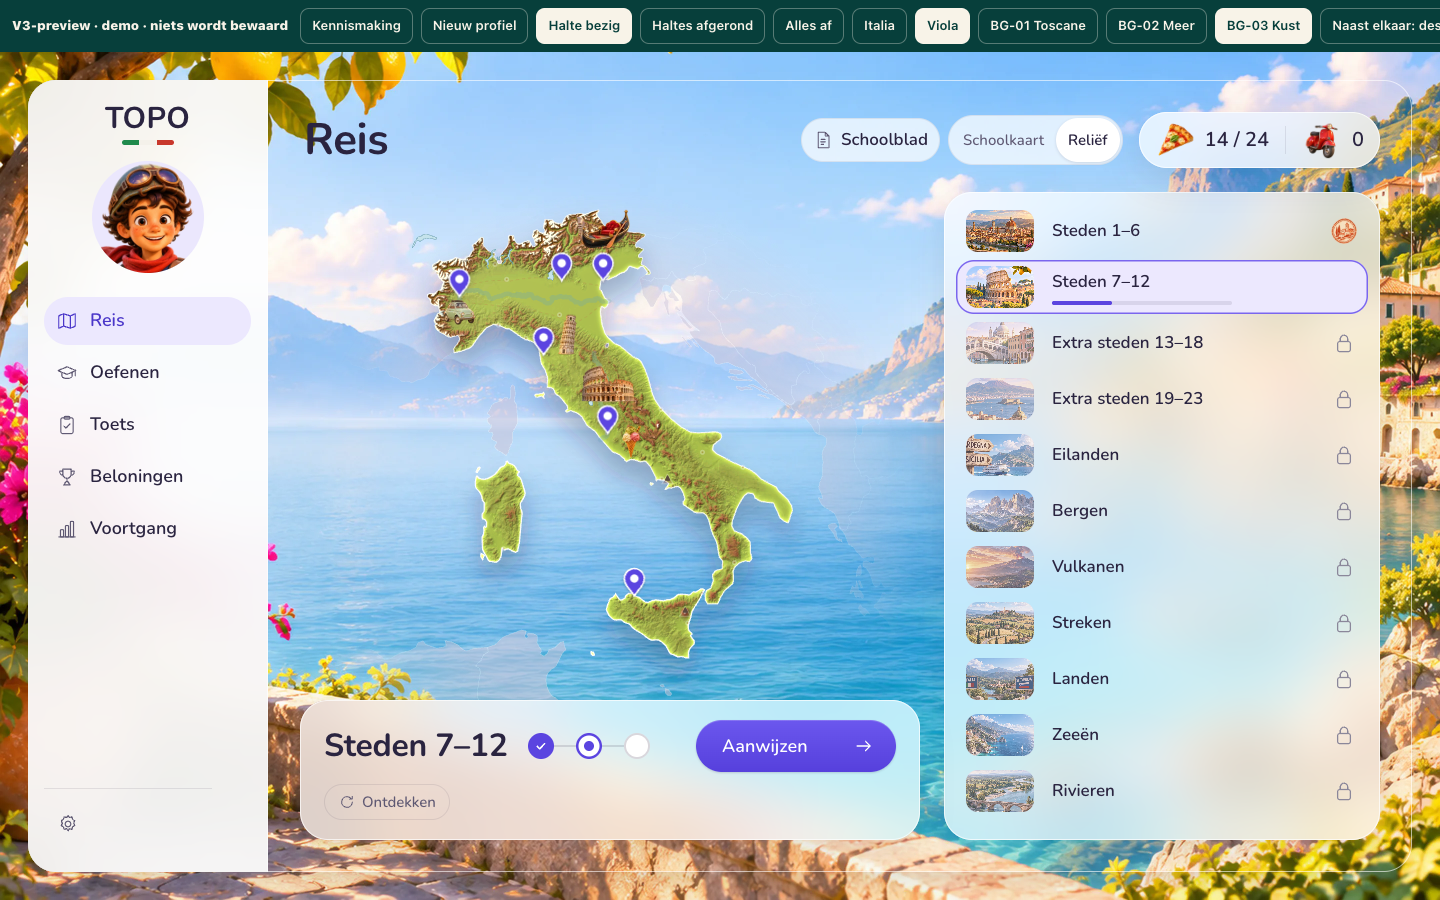
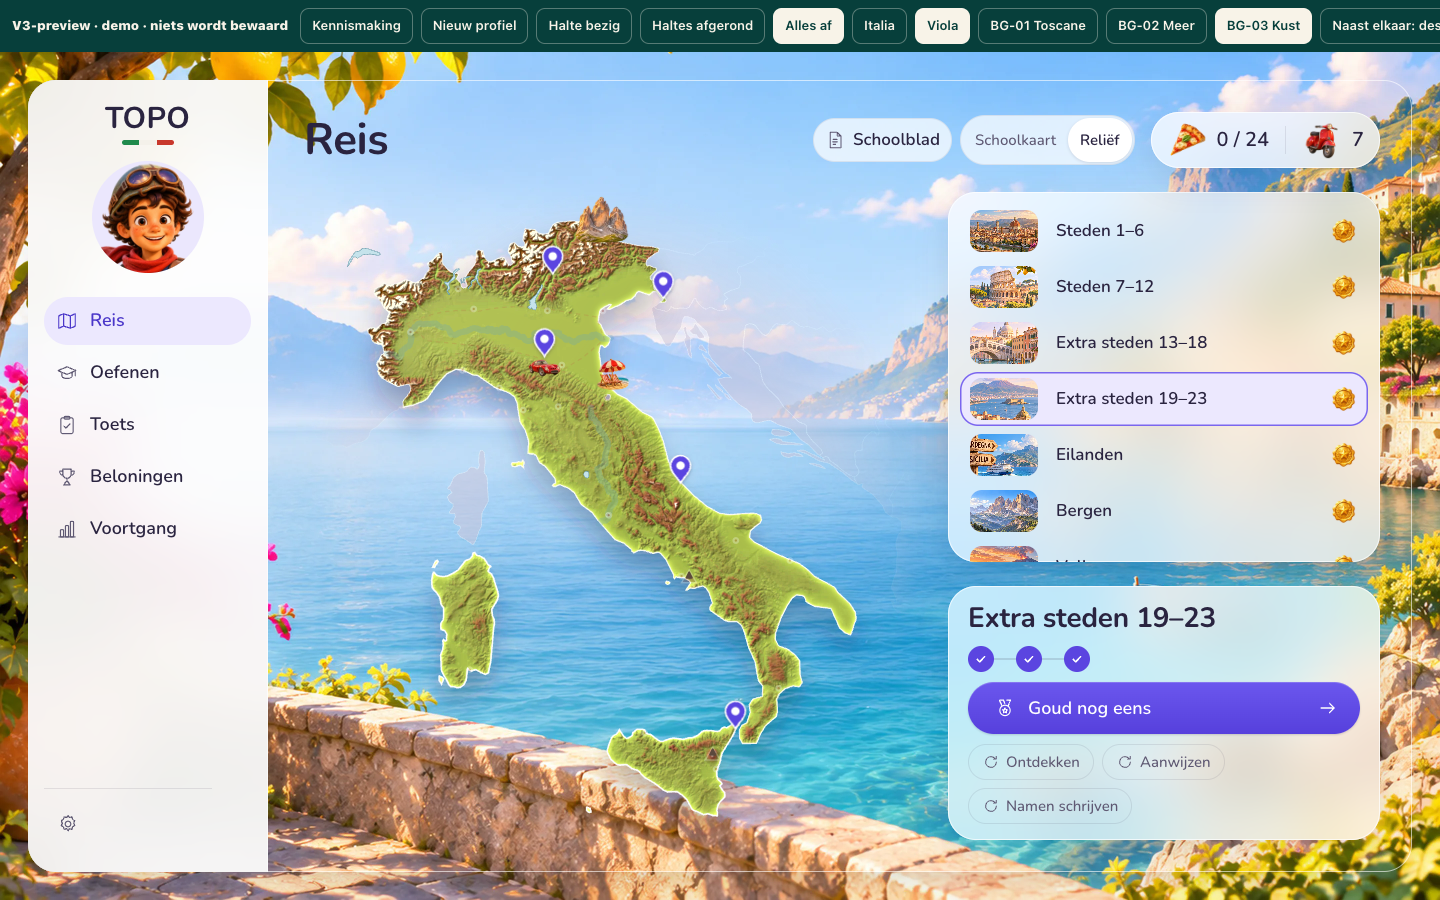
fix(v3): geef Reis op iPad ruimte voor de kaart (5B punt 10)

diff --git a/scripts/v3/ronde5b.css b/scripts/v3/ronde5b.css
@@ -1,0 +1,14 @@
+/* Ronde 5B: scoped presentation corrections; source geometry and actions remain unchanged. */
+@media(min-width:1024px){
+ .v3Reis[data-view=reis]{grid-template-columns:var(--v3-side-w) minmax(0,1fr) calc((100% - var(--v3-side-w) - 2*var(--v3-inner)) * .4 + var(--v3-inner))}
+ .v3Reis[data-view=reis] .v3Main>.v3MapStage{--v3-card-over:0}
+ .v3Reis[data-view=reis] .v3List>.v3Rows{grid-row:2;margin-bottom:0}
+ .v3Reis[data-view=reis] .v3Main>.v3Panel{grid-column:3;grid-row:3;min-width:0;margin:0 var(--v3-inner) var(--v3-inner) 0;padding:16px 20px!important;grid-template-columns:minmax(0,1fr);gap:10px}
+ .v3Reis[data-view=reis] .v3Panel .v3CardHead{gap:10px}
+ .v3Reis[data-view=reis] .v3Panel .v3CardTitle{flex:1 1 100%;font:700 28px/1.2 var(--v3-font)}
+ .v3Reis[data-view=reis] .v3Panel>.v3Locked{grid-column:1}
+ .v3Reis[data-view=reis] .v3Panel .v3Actions .primary{width:100%;min-width:0;white-space:normal;line-height:1.25;padding-block:8px}
+}
+@media(min-width:1024px) and (max-width:1279px){
+ .v3Reis[data-view=reis] .v3Panel .v3CardTitle{font-size:24px}
+}

diff --git a/scripts/qa-v3-ronde5b.py b/scripts/qa-v3-ronde5b.py
@@ -1,0 +1,153 @@
+#!/usr/bin/env python3
+"""Ronde 5B: only the screen changed by --point 10, 11 or 12; requested desktop/iPad evidence."""
+import argparse
+import asyncio
+import hashlib
+import importlib.util
+import json
+import pathlib
+import re
+from playwright.async_api import async_playwright
+
+ROOT = pathlib.Path(__file__).resolve().parents[1]
+OUT = ROOT / 'docs/qa/v3-stijlbeeld/final'
+HTML = ROOT / 'output/html/TOPO-V3-Reis-Preview.html'
+spec = importlib.util.spec_from_file_location('screen_metrics', ROOT/'scripts/qa-v3-afwerking.py')
+q = importlib.util.module_from_spec(spec)
+spec.loader.exec_module(q)
+q.HTML = HTML
+sha = lambda path: hashlib.sha256(path.read_bytes()).hexdigest()
+VIEWPORTS = {'desktop': (1440, 900), 'ipad-liggend': (1080, 810)}
+
+
+def compact_reis(rows):
+    return {'cases':len(rows),'states':sorted({r['state'] for r in rows}),
+            'chapters':len({r['chapter'] for r in rows}),
+            'minExposedMapShare':min(r['exposedMapShare'] for r in rows),
+            'maxCardShare':max(r['cardShare'] for r in rows),
+            'maxTitleLines':max(r['lines'] for r in rows),'fonts':sorted({r['font'] for r in rows}),
+            'longTitleCases':[{k:r[k] for k in ('state','title','lines','font')} for r in rows if r['chapter']=='city4'],
+            'framesStable':True}
+
+CARD = '''()=>{
+ const card=document.querySelector('.v3Main>.v3Panel'),title=card.querySelector('#v3Title'),r=card.getBoundingClientRect(),s=getComputedStyle(title);
+ const svg=document.querySelector('.v3MapStage .v3Map'),b=svg.getBoundingClientRect();
+ const collision=Math.max(0,Math.min(r.right,b.right)-Math.max(r.left,b.left))*Math.max(0,Math.min(r.bottom,b.bottom)-Math.max(r.top,b.top));
+ return {width:r.width,title:title.textContent,lines:Math.round(title.getBoundingClientRect().height/parseFloat(s.lineHeight)),
+  font:parseFloat(s.fontSize),clipped:title.scrollWidth>title.clientWidth+1,outside:r.right>innerWidth+1||r.bottom>innerHeight+1,
+  mapOcclusion:collision,frame:svg.dataset.frame,viewBox:svg.getAttribute('viewBox')};}'''
+
+
+async def choose(page, chapter):
+    await page.evaluate('id=>{TOPO_V3.ui.selected=id;TOPO_V3.render()}', chapter)
+    await page.wait_for_timeout(70)
+    await page.wait_for_function('!document.querySelector(".v3MapStage .v3Map").dataset.gliding')
+
+
+async def reis(page, name):
+    measurements = []
+    failures = []
+    for state in ('nieuw', 'bezig', 'alles'):
+        await page.goto('about:blank')
+        await page.goto(HTML.as_uri() + '#' + state + '/bg03')
+        await page.evaluate('document.fonts.ready')
+        await page.wait_for_timeout(450)
+        chapters = await page.evaluate('TOPO_V3.model().chapters.map(c=>c.id)')
+        frames = {}
+        for chapter in chapters:
+            await choose(page, chapter)
+            card = await page.evaluate(CARD)
+            layout = await page.evaluate(q.LAYOUT, 'reis')
+            row = {'state': state, 'chapter': chapter, 'mapShare': round(layout['share'], 4),
+                   'exposedMapShare':round(layout['share']-card['mapOcclusion']/(layout['content']['w']*layout['content']['h']),4),
+                   'cardShare': round(card['width']/layout['content']['w'], 4), **card}
+            measurements.append(row)
+            if row['exposedMapShare'] < .45 or row['cardShare'] > .41 or card['lines'] > 2 or card['font']!=(28 if name=='desktop' else 24) or card['clipped'] or card['outside'] or card['mapOcclusion'] > 1:
+                failures.append(row)
+            frames.setdefault(card['frame'], set()).add(card['viewBox'])
+        if any(len(boxes)>1 for boxes in frames.values()):
+            failures.append({'state': state, 'unstableFrames': {k:list(v) for k,v in frames.items()}})
+    await choose(page, 'city4')
+    button=page.locator('.v3Row[data-chapter=city4]')
+    await (button.click() if name=='desktop' else button.tap())
+    assert await button.get_attribute('aria-pressed')=='true'
+    return measurements, failures, 'reis'
+
+
+async def countries(page, name):
+    await choose(page, 'countries')
+    data = await page.locator('.v3MapStage .v3Map').evaluate('''svg=>({
+      frame:svg.dataset.frame,relief:getComputedStyle(svg.querySelector('.atlasTerrain')).display,
+      countries:[...svg.querySelectorAll('.country.v3Hit')].map(n=>{const s=getComputedStyle(n);return{id:n.dataset.id,fill:s.fill,alpha:+s.fillOpacity,stroke:s.stroke,strokeAlpha:+s.strokeOpacity,width:parseFloat(s.strokeWidth)}}),
+      geometry:[...svg.querySelectorAll('.country[data-id]')].map(n=>[n.dataset.id,n.getAttribute('d')])})''')
+    errors = []
+    if data['frame'] != 'omgeving' or data['relief']=='none' or not data['countries']:
+        errors.append(data)
+    if any(c['alpha']>.2 or c['alpha']<=0 or c['stroke']!='rgb(91, 69, 224)' or c['strokeAlpha']<.5 or c['width']<1 for c in data['countries']):
+        errors.append(data['countries'])
+    return data, errors, 'reis-omgeving'
+
+
+async def ride(page, name):
+    # Freeze the browser clock for a genuine focused departure state, not a fabricated dialog.
+    await page.clock.install(time=0)
+    await page.clock.pause_at(100)
+    await page.keyboard.press('Tab')
+    await page.evaluate('celebrateTrip("Rome","Florence")')
+    button = page.locator('.vespaRide .rideActions button').first
+    data = await button.evaluate('''b=>{const s=getComputedStyle(b),r=b.getBoundingClientRect();return{text:b.textContent,focus:document.activeElement===b,visible:b.matches(':focus-visible'),
+      outline:s.outlineColor,outlineWidth:parseFloat(s.outlineWidth),outlineStyle:s.outlineStyle,offset:parseFloat(s.outlineOffset),shadow:s.boxShadow,
+      background:s.backgroundColor,radius:parseFloat(s.borderRadius),height:r.height,width:r.width};}''')
+    errors = []
+    if not (data['text']=='Overslaan' and data['focus'] and data['visible'] and data['outline']=='rgb(91, 69, 224)' and data['outlineWidth']>=3 and data['offset']>=2 and data['radius']>=data['height']/2 and data['height']>=44):
+        errors.append(data)
+    rgba = re.findall(r'[\d.]+', data['background'])
+    if not data['background'].startswith('rgba(') or not .5<=float(rgba[-1])<1:
+        errors.append(data)
+    return data, errors, 'vespa-rit'
+
+
+async def main(point):
+    initial = sha(HTML)
+    index = sha(ROOT/'index.html')
+    failures = []
+    runs = {}
+    async with async_playwright() as pw:
+        browser = await pw.chromium.launch(executable_path=q.MAC_CHROME)
+        for name, (width, height) in VIEWPORTS.items():
+            context = await browser.new_context(viewport={'width':width,'height':height},has_touch=name!='desktop',offline=True)
+            page = await context.new_page()
+            errors = []
+            page.on('pageerror', lambda error: errors.append(str(error)))
+            await (await context.new_cdp_session(page)).send('Emulation.setEmulatedMedia', {'features':[{'name':'prefers-reduced-transparency','value':'no-preference'}]})
+            await page.goto(HTML.as_uri()+'#alles/bg03')
+            await page.evaluate('document.fonts.ready')
+            await page.wait_for_timeout(450)
+            geometry = await page.locator('#map [data-id]').evaluate_all('ns=>ns.map(n=>[n.dataset.id,n.getAttribute("d"),n.getAttribute("cx"),n.getAttribute("cy")])')
+            result, bad, screen = await {10:reis,11:countries,12:ride}[point](page,name)
+            assert await page.locator('#map [data-id]').evaluate_all('ns=>ns.map(n=>[n.dataset.id,n.getAttribute("d"),n.getAttribute("cx"),n.getAttribute("cy")])') == geometry
+            assert not errors, errors
+            failures.extend({'viewport':name,'failure':item} for item in bad)
+            if not bad:
+                if point!=12:
+                    await page.evaluate('document.activeElement?.blur?.()')
+                    await page.mouse.move(1,1)
+                await page.screenshot(path=str(OUT/f'{screen}-{name}.png'))
+            runs[name] = {'viewport':[width,height],'screen':screen,'checks':compact_reis(result) if point==10 and not bad else result,'errors':errors}
+            await context.close()
+        await browser.close()
+    assert initial==sha(HTML) and index==sha(ROOT/'index.html')
+    assert not failures, json.dumps(failures,ensure_ascii=False)
+    path = OUT/'ronde5b.json'
+    data = json.loads(path.read_text()) if path.exists() else {}
+    data[str(point)] = {'pass':True,'previewSha256':initial,'indexSha256':index,'runs':runs}
+    path.write_text(json.dumps(data,ensure_ascii=False,indent=2)+'\n')
+    print(f'Ronde 5B punt {point}: PASS ({len(runs)} viewports)',flush=True)
+
+
+if __name__=='__main__':
+    parser=argparse.ArgumentParser()
+    parser.add_argument('--point',type=int,choices=[10,11,12])
+    args=parser.parse_args()
+    for point in ([args.point] if args.point else [10,11,12]):
+        asyncio.run(main(point))

diff --git a/scripts/qa-v3-ronde5.py b/scripts/qa-v3-ronde5.py
@@ -17,7 +17,7 @@ FRAME='''async id=>{
  const b=[it,...isl].reduce((a,r)=>({l:Math.min(a.l,r.left),t:Math.min(a.t,r.top),r:Math.max(a.r,r.right),b:Math.max(a.b,r.bottom)}),{l:1e9,t:1e9,r:-1e9,b:-1e9});
  const st=document.querySelector('.v3Reis .v3MapStage').getBoundingClientRect(),card=document.querySelector('.v3Reis .v3Main>.v3Panel').getBoundingClientRect();
  return {id,frame:svg.dataset.frame,viewBox:svg.getAttribute('viewBox'),italyH:Math.round(b.b-b.t),italyW:Math.round(b.r-b.l),
-  clearOfCard:b.b<=card.top+1,inStage:b.t>=st.top-1&&b.l>=st.left-1&&b.r<=st.right+1,stageH:Math.round(st.height),stageW:Math.round(st.width),
+  clearOfCard:b.b<=card.top+1||b.r<=card.left+1||b.l>=card.right-1||b.t>=card.bottom-1,inStage:b.t>=st.top-1&&b.l>=st.left-1&&b.r<=st.right+1,stageH:Math.round(st.height),stageW:Math.round(st.width),
   freeH:Math.round(st.height-parseFloat(getComputedStyle(document.querySelector('.v3Reis .v3MapStage')).getPropertyValue('--v3-fit-bottom')))};
 }'''
 
